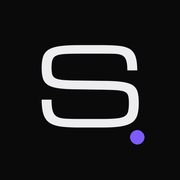
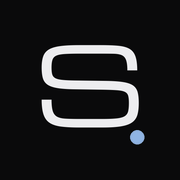
feat(v2): paleta acero/cromo sin violeta, cursor lente en el hero, easings south-in/mercury, Lenis v2

Changed region(s): [[0.7222, 0.7222, 0.8056, 0.8056]]

diff --git a/src/app/globals.css b/src/app/globals.css
@@ -5,7 +5,7 @@
  *  2) Sistema de diseño v2 (copiado del preview, fuentes → variables de next/font)
  *  3) Overrides del concepto 10 (Partículas)
  *  4) Extensiones de producción (páginas internas, menú móvil, view transitions, 404)
- * Colores: cambia --accent / --accent-rgb / --accent-fill en el bloque "Concepto 10".
+ * Colores: tokens --accent / --accent-rgb / --accent-fill / --accent-deep / --chrome-1..3 en :root (sección 2).
  */
 @layer theme, base, components, utilities;
 @import "tailwindcss/theme.css" layer(theme);
@@ -14,14 +14,16 @@
 /* ============ 2) Sistema de diseño v2 (preview) ============ */
 /* ===== South Software · design system v2 ===== */
 :root{--bg:#0A0A0B;--bg2:#0F0F11;--fg:#EDEDEF;--muted:#8A8F98;--dim:#757A84;--line:rgba(255,255,255,.08);--line2:rgba(255,255,255,.14);--card:rgba(255,255,255,.022);
---accent:#3B82F6;--accent-rgb:59,130,246;--ease:cubic-bezier(.16,1,.3,1);--radius:20px;
+/* Paleta acero/cromo (v2): sin violeta. --accent = texto/acentos sobre fondo oscuro; --accent-fill = rellenos con texto blanco */
+--accent:#8FB4E3;--accent-rgb:143,180,227;--accent-fill:#2F5C96;--accent-deep:#244A7F;--accent-deep-rgb:36,74,127;
+--chrome-1:#EEF2F6;--chrome-2:#A4ADB8;--chrome-3:#7F8894;--ease:cubic-bezier(.16,1,.3,1);--radius:20px;
 --font-display:var(--ff-satoshi),sans-serif;--font-body:var(--ff-inter),sans-serif;--font-mono:var(--ff-jetbrains),monospace;--font-logo:var(--ff-michroma),sans-serif;--display-weight:500;--track:-.045em}
 *,*::before,*::after{box-sizing:border-box;margin:0;padding:0}
 html{-webkit-font-smoothing:antialiased;-moz-osx-font-smoothing:grayscale;text-rendering:optimizeLegibility;background:var(--bg)}
 html.lenis,html.lenis body{height:auto}.lenis.lenis-smooth{scroll-behavior:auto!important}
 body{background:var(--bg);color:var(--fg);font-family:var(--font-body);font-size:16px;line-height:1.6;overflow-x:hidden;font-feature-settings:"ss01","cv11"}
 img,svg{display:block;max-width:100%}a{color:inherit;text-decoration:none}button,input,select,textarea{font:inherit;color:inherit}
-::selection{background:rgba(var(--accent-rgb),.85);color:#fff}
+::selection{background:var(--accent-fill);color:#fff}
 .wrap{width:min(1320px,100% - 64px);margin:0 auto}
 .g12{display:grid;grid-template-columns:repeat(12,minmax(0,1fr));column-gap:24px}
 section{position:relative}.sec{padding:160px 0}
@@ -34,7 +36,7 @@ section{position:relative}.sec{padding:160px 0}
 .sec-head{display:grid;grid-template-columns:repeat(12,minmax(0,1fr));column-gap:24px;align-items:end;margin-bottom:88px}
 .sec-head>div:first-child{grid-column:1/9}.sec-head .lead{grid-column:9/13;justify-self:end}
 .accent{color:var(--accent)}
-.chrome{background:linear-gradient(180deg,#fff 0%,#e3e8ee 32%,#7f8894 52%,#eef2f6 72%,#a4adb8 100%);-webkit-background-clip:text;background-clip:text;color:transparent}
+.chrome{background:linear-gradient(180deg,#fff 0%,#e3e8ee 32%,var(--chrome-3) 52%,var(--chrome-1) 72%,var(--chrome-2) 100%);-webkit-background-clip:text;background-clip:text;color:transparent}
 /* masks for SplitText */
 .line-mask,.word-mask{overflow:clip;overflow-clip-margin:.12em;padding-bottom:.04em}
 /* ===== nav ===== */
@@ -52,7 +54,7 @@ section{position:relative}.sec{padding:160px 0}
 .btn .t span:nth-child(2){position:absolute;top:100%;left:0}
 .btn:hover .t span{transform:translateY(-100%)}
 .btn .ic{width:16px;height:16px;transition:transform .7s var(--ease)}.btn:hover .ic{transform:translateX(3px)}
-.btn-primary{background:var(--accent-fill);color:#fff;box-shadow:0 0 0 1px rgba(255,255,255,.12) inset,0 8px 30px -10px rgba(var(--accent-rgb),.8)}
+.btn-primary{background:var(--accent-fill);color:#fff;box-shadow:0 0 0 1px rgba(255,255,255,.12) inset,0 8px 30px -12px rgba(36,74,127,.7)}
 .btn-primary::before{content:"";position:absolute;inset:0;z-index:-1;background:linear-gradient(120deg,transparent 30%,rgba(255,255,255,.28) 50%,transparent 70%);transform:translateX(-120%);transition:transform 1s var(--ease)}
 .btn-primary:hover::before{transform:translateX(120%)}
 .btn-light{background:#EDEDEF;color:#0A0A0B}
@@ -89,7 +91,7 @@ section{position:relative}.sec{padding:160px 0}
 /* ===== services ===== */
 .svc{display:grid;grid-template-columns:repeat(3,1fr);gap:1px;background:var(--line);border:1px solid var(--line);border-radius:var(--radius);overflow:hidden}
 .svc .item{position:relative;background:var(--bg);padding:36px 34px;min-height:340px;display:flex;flex-direction:column;overflow:hidden;cursor:pointer}
-.svc .item::before{content:"";position:absolute;inset:0;background:radial-gradient(500px circle at var(--mx,50%) var(--my,0%),rgba(var(--accent-rgb),.13),transparent 55%);opacity:0;transition:opacity .6s var(--ease)}
+.svc .item::before{content:"";position:absolute;inset:0;background:radial-gradient(500px circle at var(--mx,50%) var(--my,0%),rgba(var(--accent-deep-rgb),.18),transparent 55%);opacity:0;transition:opacity .6s var(--ease)}
 .svc .item:hover::before{opacity:1}
 .svc .num{font-family:var(--font-mono);font-size:12px;color:var(--dim);display:flex;justify-content:space-between}
 .svc .aicon{width:44px;height:44px;margin:46px 0 auto;color:var(--fg)}
@@ -104,7 +106,7 @@ section{position:relative}.sec{padding:160px 0}
 .tag{font-family:var(--font-mono);font-size:11px;letter-spacing:.04em;padding:4px 9px;border-radius:6px;border:1px solid var(--line);color:var(--muted)}
 .svc .plus{position:absolute;right:30px;bottom:34px;width:28px;height:28px;border-radius:50%;border:1px solid var(--line2);display:grid;place-items:center;transition:transform .8s var(--ease),background .5s,border-color .5s}
 .svc .plus::before,.svc .plus::after{content:"";position:absolute;width:10px;height:1px;background:var(--fg)}.svc .plus::after{transform:rotate(90deg)}
-.svc .item:hover .plus{transform:rotate(135deg);background:var(--accent);border-color:var(--accent)}
+.svc .item:hover .plus{transform:rotate(135deg);background:var(--accent-fill);border-color:var(--accent-fill)}
 /* ===== story (pinned) ===== */
 .story{height:340vh;border-top:1px solid var(--line)}
 .story .pin{position:sticky;top:0;height:100vh;display:flex;align-items:center;overflow:hidden}
@@ -118,7 +120,7 @@ section{position:relative}.sec{padding:160px 0}
 .story .progress{position:absolute;left:0;bottom:-40px;display:flex;gap:8px}
 .story .progress i{width:40px;height:2px;background:var(--line2);position:relative;overflow:hidden;border-radius:2px}
 .story .progress i b{position:absolute;inset:0;background:var(--accent);transform:scaleX(0);transform-origin:left}
-.device{grid-column:7/13;aspect-ratio:16/11;border-radius:16px;border:1px solid var(--line2);background:linear-gradient(180deg,#141417,#0D0D0F);box-shadow:0 60px 120px -40px rgba(0,0,0,.8),0 0 0 1px rgba(255,255,255,.02) inset,0 30px 120px -60px rgba(var(--accent-rgb),.6);position:relative;overflow:hidden}
+.device{grid-column:7/13;aspect-ratio:16/11;border-radius:16px;border:1px solid var(--line2);background:linear-gradient(180deg,#141417,#0D0D0F);box-shadow:0 60px 120px -40px rgba(0,0,0,.8),0 0 0 1px rgba(255,255,255,.02) inset,0 30px 120px -60px rgba(var(--accent-deep-rgb),.18);position:relative;overflow:hidden}
 .device .top{height:38px;border-bottom:1px solid var(--line);display:flex;align-items:center;gap:7px;padding:0 16px}
 .device .top i{width:10px;height:10px;border-radius:50%;background:#2a2a2e}
 .device .top span{margin-left:16px;font-family:var(--font-mono);font-size:11px;color:var(--dim);padding:4px 12px;border-radius:6px;background:rgba(255,255,255,.03)}
@@ -163,7 +165,7 @@ section{position:relative}.sec{padding:160px 0}
 .tl .rail b{position:absolute;inset:0;background:linear-gradient(var(--accent),rgba(var(--accent-rgb),.2));transform-origin:top;transform:scaleY(0)}
 .tl .st{display:grid;grid-template-columns:1fr 1fr;column-gap:120px;position:relative;padding:44px 0}
 .tl .st .node{position:absolute;left:50%;top:56px;width:13px;height:13px;margin-left:-6px;border-radius:50%;background:var(--bg);border:1px solid var(--line2);transition:background .6s,border-color .6s,box-shadow .6s}
-.tl .st.on .node{background:var(--accent);border-color:var(--accent);box-shadow:0 0 0 6px rgba(var(--accent-rgb),.15),0 0 30px rgba(var(--accent-rgb),.7)}
+.tl .st.on .node{background:var(--accent);border-color:var(--accent);box-shadow:0 0 0 6px rgba(var(--accent-rgb),.12),0 0 30px rgba(var(--accent-deep-rgb),.18)}
 .tl .st .c{grid-column:1;text-align:right}
 .tl .st:nth-child(odd) .c{grid-column:2;text-align:left}
 .tl .st .mono{color:var(--accent)}
@@ -212,13 +214,13 @@ section{position:relative}.sec{padding:160px 0}
 .tq .pill{display:inline-block;font-family:var(--font-mono);font-size:10px;letter-spacing:.08em;text-transform:uppercase;padding:4px 8px;border-radius:6px;border:1px solid var(--line2);color:var(--muted);margin-bottom:22px}
 /* ===== final CTA ===== */
 .final{min-height:100svh;display:flex;align-items:center;border-top:1px solid var(--line);overflow:hidden;padding:140px 0}
-.final .glow{position:absolute;width:900px;height:900px;left:50%;top:40%;transform:translate(-50%,-50%);background:radial-gradient(closest-side,rgba(var(--accent-rgb),.16),transparent);pointer-events:none}
+.final .glow{position:absolute;width:900px;height:900px;left:50%;top:40%;transform:translate(-50%,-50%);background:radial-gradient(closest-side,rgba(var(--accent-deep-rgb),.18),transparent);pointer-events:none}
 .final .g12{position:relative;width:100%;align-items:start;row-gap:60px}
 .final .l{grid-column:1/7}.final form{grid-column:8/13}
 .final h2{font-family:var(--font-display);font-weight:500;font-size:clamp(56px,8vw,136px);line-height:.88;letter-spacing:-.055em}
 .final .l p{color:var(--muted);font-size:18px;max-width:420px;margin-top:28px}
-.orb{margin-top:56px;width:168px;height:168px;border-radius:50%;background:var(--accent-fill);color:#fff;display:grid;place-items:center;text-align:center;font-weight:500;font-size:15px;line-height:1.25;box-shadow:0 30px 80px -20px rgba(var(--accent-rgb),.8);will-change:transform;position:relative}
-.orb::after{content:"";position:absolute;inset:-14px;border-radius:50%;border:1px solid rgba(var(--accent-rgb),.35)}
+.orb{margin-top:56px;width:168px;height:168px;border-radius:50%;background:linear-gradient(160deg,#fff 0%,var(--chrome-1) 28%,var(--chrome-2) 62%,var(--chrome-3) 100%);color:#0A0A0B;display:grid;place-items:center;text-align:center;font-weight:500;font-size:15px;line-height:1.25;box-shadow:0 0 0 1px rgba(255,255,255,.35) inset,0 30px 80px -24px rgba(var(--accent-deep-rgb),.7);will-change:transform;position:relative}
+.orb::after{content:"";position:absolute;inset:-14px;border-radius:50%;border:1px solid rgba(164,173,184,.35)}
 .direct{display:flex;gap:28px;margin-top:44px;font-size:14.5px;color:var(--muted)}.direct a{border-bottom:1px solid var(--line2);padding-bottom:3px;transition:color .4s,border-color .4s}.direct a:hover{color:var(--fg);border-color:var(--fg)}
 form.brief{display:grid;grid-template-columns:1fr 1fr;gap:12px;padding:28px;border-radius:24px;border:1px solid var(--line);background:rgba(16,16,18,.7);backdrop-filter:blur(12px)}
 .f{position:relative}.f.full{grid-column:1/-1}
@@ -256,7 +258,7 @@ footer{border-top:1px solid var(--line);padding:72px 0 0;overflow:hidden;positio
 .cursor{position:fixed;left:0;top:0;z-index:200;pointer-events:none;width:8px;height:8px;margin:-4px 0 0 -4px;border-radius:50%;background:#fff;mix-blend-mode:difference;opacity:0;transition:opacity .3s}
 .cursor-ring{position:fixed;left:0;top:0;z-index:199;pointer-events:none;width:36px;height:36px;margin:-18px 0 0 -18px;border-radius:50%;border:1px solid rgba(255,255,255,.35);display:grid;place-items:center;opacity:0;transition:width .6s var(--ease),height .6s var(--ease),margin .6s var(--ease),background .5s,border-color .5s,opacity .3s}
 .cursor-ring span{font-family:var(--font-mono);font-size:10.5px;letter-spacing:.08em;text-transform:uppercase;color:#fff;opacity:0;transition:opacity .3s}
-.cursor-ring.big{width:92px;height:92px;margin:-46px 0 0 -46px;background:rgba(var(--accent-rgb),.9);border-color:transparent}
+.cursor-ring.big{width:92px;height:92px;margin:-46px 0 0 -46px;background:rgba(47,92,150,.94);border-color:transparent}
 .cursor-ring.big span{opacity:1}
 .cursor-ring.link{width:56px;height:56px;margin:-28px 0 0 -28px;border-color:rgba(255,255,255,.6)}
 body.cursor-on .cursor{opacity:1}body.cursor-on .cursor-ring{opacity:1}
@@ -311,10 +313,8 @@ html{overflow-x:clip}
 }
 
 /* ============ 3) Concepto 10 · Partículas ============ */
-:root{--accent:#7C5CFF;--accent-rgb:124,92,255;--accent-fill:#7856FF}
 .hero h1{font-size:clamp(48px,6vw,100px);letter-spacing:-.05em}
 .hero .hx{margin-top:auto;padding-bottom:112px}
-.nav .logo img{filter:hue-rotate(28deg) saturate(1.2)}
 
 /* ============ 4) Extensiones de producción (mismo lenguaje visual) ============ */
 :where(h1,h2,h3,h4,h5,h6){font-size:inherit;font-weight:inherit}
@@ -322,7 +322,7 @@ html{overflow-x:clip}
 .skip:focus{top:16px}
 :focus-visible{outline:2px solid var(--accent);outline-offset:3px}
 .hero .gl-wrap canvas{display:block}
-.gl-fallback{position:absolute;inset:0;background:radial-gradient(60% 50% at 50% 40%,rgba(var(--accent-rgb),.18),transparent 70%)}
+.gl-fallback{position:absolute;inset:0;background:radial-gradient(60% 50% at 50% 40%,rgba(var(--accent-deep-rgb),.18),transparent 70%)}
 
 /* ---- Preloader 100% CSS (equivale al timeline GSAP del preview, total 1,5 s) ---- */
 .pre{animation:pre-out .45s cubic-bezier(.65,0,.35,1) 1.05s both}
@@ -365,7 +365,7 @@ form.brief .ts{min-height:65px}
 /* ---- Páginas internas ---- */
 .page-top{height:96px}
 .phero{position:relative;padding:200px 0 100px;border-bottom:1px solid var(--line);overflow:hidden}
-.phero .glow{position:absolute;width:900px;height:900px;right:-200px;top:-300px;background:radial-gradient(closest-side,rgba(var(--accent-rgb),.14),transparent);pointer-events:none}
+.phero .glow{position:absolute;width:900px;height:900px;right:-200px;top:-300px;background:radial-gradient(closest-side,rgba(var(--accent-deep-rgb),.16),transparent);pointer-events:none}
 .phero .wrap{position:relative}
 .phero h1{font-family:var(--font-display);font-weight:500;font-size:clamp(56px,8vw,136px);line-height:.9;letter-spacing:-.055em;margin-top:28px;text-wrap:balance}
 .phero .ph-l{grid-column:1/9}.phero .ph-r{grid-column:9/13;justify-self:end}
@@ -380,7 +380,7 @@ form.brief .ts{min-height:65px}
 .case-hero .media{position:relative;border-radius:16px;overflow:hidden;border:1px solid var(--line2);background:#111;aspect-ratio:16/9.4}
 .srows{display:grid;border-top:1px solid var(--line)}
 .srow{position:relative;display:grid;grid-template-columns:repeat(12,minmax(0,1fr));column-gap:24px;padding:56px 0;border-bottom:1px solid var(--line);scroll-margin-top:100px}
-.srow::before{content:"";position:absolute;inset:0;background:radial-gradient(600px circle at var(--mx,50%) var(--my,0%),rgba(var(--accent-rgb),.08),transparent 55%);opacity:0;transition:opacity .6s var(--ease);pointer-events:none}
+.srow::before{content:"";position:absolute;inset:0;background:radial-gradient(600px circle at var(--mx,50%) var(--my,0%),rgba(var(--accent-deep-rgb),.16),transparent 55%);opacity:0;transition:opacity .6s var(--ease);pointer-events:none}
 .srow:hover::before{opacity:1}
 .srow .s-num{grid-column:1/3;display:flex;flex-direction:column;gap:28px;color:var(--dim)}
 .srow .aicon{width:44px;height:44px;color:var(--fg)}
@@ -434,3 +434,8 @@ html.rm .marquee .track,html.rm .hero-meta .scroll i::after{animation:none}
 
 /* a11y: texto de la barra de URL sobre #141417 (4.77:1, antes 4.27:1) */
 .case .media .top span,.device .top span{color:#7D828C}
+
+/* Cursor "lente" sobre el hero (v2): anillo de 64px sin relleno ni etiqueta; se oculta el punto central */
+.cursor-ring.lens{width:64px;height:64px;margin:-32px 0 0 -32px;background:none;border:1px solid rgba(237,237,239,.35);-webkit-backdrop-filter:blur(0) saturate(1.1);backdrop-filter:blur(0) saturate(1.1)}
+.cursor-ring.lens span{display:none}
+body.cursor-lens .cursor{opacity:0!important}

diff --git a/src/lib/motion-runtime.ts b/src/lib/motion-runtime.ts
@@ -37,7 +37,7 @@ export function startGlobal(): () => void {
     // Lenis (smooth scroll) — detenido mientras corre el preloader
     let tick: ((t: number) => void) | null = null;
     if (!RT.static) {
-      lenis = new Lenis({ lerp: 0.09, smoothWheel: true, wheelMultiplier: 1 });
+      lenis = new Lenis({ lerp: 0.12, wheelMultiplier: 1.1, touchMultiplier: 1.2, smoothWheel: true, syncTouch: false });
       lenis.on('scroll', ScrollTrigger.update);
       tick = (t: number) => lenis?.raf(t * 1000);
       gsap.ticker.add(tick);
@@ -81,11 +81,16 @@ export function startGlobal(): () => void {
       on(document, 'pointerover', ((e: PointerEvent) => {
         const t = e.target as Element;
         const ctx = t.closest?.('[data-cursor]') as HTMLElement | null;
+        const link = !ctx && !!t.closest?.('a,button,select,input,textarea');
+        // lente del hero: sin etiqueta ni relleno (no aplica sobre links/botones)
+        const lens = !ctx && !link && !!t.closest?.('[data-cursor-lens]');
         r.classList.toggle('big', !!ctx);
         if (ctx) label.textContent = ctx.dataset.cursor || '';
-        r.classList.toggle('link', !ctx && !!t.closest?.('a,button,select,input,textarea'));
+        r.classList.toggle('link', link);
+        r.classList.toggle('lens', lens);
+        document.body.classList.toggle('cursor-lens', lens);
       }) as EventListener, { passive: true });
-      off.push(() => { d.remove(); r.remove(); document.body.classList.remove('cursor-on'); });
+      off.push(() => { d.remove(); r.remove(); document.body.classList.remove('cursor-on', 'cursor-lens'); });
     }
 
     // Nav que se esconde al bajar + botón flotante de WhatsApp
@@ -149,7 +154,7 @@ export function startRoute(root: HTMLElement): () => void {
         const parts = type === 'chars' ? st.chars : type === 'lines' ? st.lines : st.words;
         const v = { yPercent: 0, duration: 1.2, stagger: type === 'chars' ? 0.022 : 0.06, ease: 'south' };
         gsap.set(parts, { yPercent: 115 });
-        if (inHero) off.push(onIntro(() => gsap.to(parts, { ...v, delay: parseFloat(el.dataset.delay || '0') })));
+        if (inHero) off.push(onIntro(() => gsap.to(parts, { ...v, ease: el.closest('.hero') ? 'mercury' : 'south', delay: parseFloat(el.dataset.delay || '0') })));
         else gsap.to(parts, { ...v, scrollTrigger: { trigger: el, start: 'top 86%' } });
       });
     });
@@ -246,7 +251,7 @@ export function startRoute(root: HTMLElement): () => void {
           const img = m.querySelector('img'); const o = { s: 0 };
           if (img) listen(m, 'pointerenter', () => {
             img.style.filter = `url(#${id})`;
-            gsap.fromTo(o, { s: 0 }, { s: 38, duration: 0.35, ease: 'power2.out', yoyo: true, repeat: 1, onUpdate: () => dm.setAttribute('scale', String(o.s)), onComplete: () => { img.style.filter = ''; } });
+            gsap.fromTo(o, { s: 0 }, { s: 18, duration: 0.35, ease: 'power2.out', yoyo: true, repeat: 1, onUpdate: () => dm.setAttribute('scale', String(o.s)), onComplete: () => { img.style.filter = ''; } });
           });
         });
       }

diff --git a/src/components/MobileMenu.tsx b/src/components/MobileMenu.tsx
@@ -8,6 +8,7 @@ import { AnimatePresence, LazyMotion, domAnimation, m } from 'framer-motion';
 import { NAV } from '@/content/site';
 
 const EASE = [0.16, 1, 0.3, 1] as const;
+const EASE_IN = [0.7, 0, 0.84, 0] as const; // 'south-in' para salidas
 
 export default function MobileMenu({ open, onClose }: { open: boolean; onClose: () => void }) {
   return (
@@ -15,7 +16,7 @@ export default function MobileMenu({ open, onClose }: { open: boolean; onClose: 
       <AnimatePresence>
         {open && (
           <m.div id="menu-movil" className="mmenu" role="dialog" aria-modal="true" aria-label="Menú"
-            initial={{ clipPath: 'inset(0 0 100% 0)' }} animate={{ clipPath: 'inset(0 0 0% 0)' }} exit={{ clipPath: 'inset(0 0 100% 0)' }}
+            initial={{ clipPath: 'inset(0 0 100% 0)' }} animate={{ clipPath: 'inset(0 0 0% 0)' }} exit={{ clipPath: 'inset(0 0 100% 0)', transition: { duration: 0.5, ease: EASE_IN } }}
             transition={{ duration: 0.7, ease: EASE }}>
             <nav aria-label="Menú móvil">
               {[{ href: '/', label: 'Inicio' }, ...NAV].map((l, i) => (

diff --git a/src/lib/gsap.ts b/src/lib/gsap.ts
@@ -1,4 +1,4 @@
-/** Registro único de plugins GSAP + easing de marca `south` = cubic-bezier(0.16,1,0.3,1). */
+/** Registro único de plugins GSAP + easings de marca: `south` (0.16,1,0.3,1), `south-in` (salidas) y `mercury`. */
 import gsap from 'gsap';
 import { ScrollTrigger } from 'gsap/ScrollTrigger';
 import { SplitText } from 'gsap/SplitText';
@@ -10,6 +10,10 @@ export function setupGsap() {
   registered = true;
   gsap.registerPlugin(ScrollTrigger, SplitText, CustomEase);
   CustomEase.create('south', '0.16,1,0.3,1');
+  // salidas (aceleran hacia el final)
+  CustomEase.create('south-in', '0.7,0,0.84,0');
+  // "mercurio": leve sobrepaso y asentamiento. SOLO intro del titular y morph esfera→texto al subir
+  CustomEase.create('mercury', 'M0,0 C0.2,0 0.1,1.12 0.42,1.02 0.62,0.98 0.8,1 1,1');
   gsap.defaults({ ease: 'south', duration: 1 });
 }
 export { gsap, ScrollTrigger, SplitText };

diff --git a/src/app/not-found.tsx b/src/app/not-found.tsx
@@ -11,7 +11,7 @@ const LINES = [{ text: '404', size: 300, y: 200 }];
 export default function NotFound() {
   return (
     <Page>
-      <section className="hero nf" data-cursor="Mueve">
+      <section className="hero nf" data-cursor-lens>
         <HeroCanvas font={michromaFamily} lines={LINES} />
         <div className="shade-b" />
         <div className="hx">

diff --git a/src/components/sections/Hero.tsx b/src/components/sections/Hero.tsx
@@ -5,7 +5,7 @@ import { michromaFamily } from '@/lib/fonts';
 
 export default function Hero() {
   return (
-    <section className="hero" id="hero" data-cursor="Mueve">
+    <section className="hero" id="hero" data-cursor-lens>
       <HeroCanvas font={michromaFamily} />
       <div className="shade-b" />
       <div className="hx">

diff --git a/scripts/measure-home.py b/scripts/measure-home.py
@@ -1,0 +1,29 @@
+"""Mide altura del home y de cada sección (en px y en múltiplos de innerHeight) en 3 viewports.
+Uso: python3 scripts/measure-home.py http://localhost:3100/ [salida.json]"""
+import asyncio, sys, json
+from playwright.async_api import async_playwright
+URL = sys.argv[1] if len(sys.argv) > 1 else 'http://localhost:3100/'
+VPS = [('1440x900', 1440, 900, False), ('1280x680', 1280, 680, False), ('390x844', 390, 844, True)]
+JS = """() => {
+  const vh = innerHeight, page = [...document.querySelectorAll('main .page')].find(p => p.offsetParent !== null) || document.querySelector('main');
+  const els = [...page.querySelectorAll(':scope > section, :scope > div > section, :scope > section.story')];
+  const out = els.map(s => ({ id: s.id || s.className.split(' ')[0] || s.getAttribute('aria-label'), h: Math.round(s.getBoundingClientRect().height), vh: +(s.getBoundingClientRect().height / vh).toFixed(2) }));
+  const f = document.querySelector('footer'); if (f) out.push({ id: 'footer', h: Math.round(f.offsetHeight), vh: +(f.offsetHeight / vh).toFixed(2) });
+  return { scrollHeight: document.documentElement.scrollHeight, innerHeight: vh, ratio: +(document.documentElement.scrollHeight / vh).toFixed(2), sections: out };
+}"""
+async def main():
+  res = {}
+  async with async_playwright() as p:
+    b = await p.chromium.launch(executable_path='/usr/bin/google-chrome', args=['--use-angle=swiftshader', '--enable-unsafe-swiftshader'])
+    for name, w, h, mob in VPS:
+      ctx = await b.new_context(viewport={'width': w, 'height': h}, is_mobile=mob, has_touch=mob, device_scale_factor=1)
+      pg = await ctx.new_page(); await pg.goto(URL, wait_until='load'); await pg.wait_for_timeout(2500)
+      for y in range(0, 30): await pg.mouse.wheel(0, 900); await pg.wait_for_timeout(60)
+      await pg.wait_for_timeout(800)
+      res[name] = await pg.evaluate(JS); await ctx.close()
+    await b.close()
+  for k, v in res.items():
+    print(f"{k}: scrollHeight={v['scrollHeight']} ratio={v['ratio']}")
+    for s in v['sections']: print(f"   {s['id']:<20} {s['h']:>6}px {s['vh']:>5}vh")
+  if len(sys.argv) > 2: json.dump(res, open(sys.argv[2], 'w'), indent=1)
+asyncio.run(main())

diff --git a/scripts/js-weight.py b/scripts/js-weight.py
@@ -1,0 +1,23 @@
+"""Suma el JS (gzip) que carga el home en desktop, separando el chunk 3D (three/R3F).
+Uso: python3 scripts/js-weight.py http://localhost:3100/  (lee los archivos de .next/static)."""
+import asyncio, sys, gzip, os
+from playwright.async_api import async_playwright
+URL = sys.argv[1] if len(sys.argv) > 1 else 'http://localhost:3100/'
+ROOT = os.path.join(os.path.dirname(__file__), '..', '.next')
+async def main():
+  urls = []
+  async with async_playwright() as p:
+    b = await p.chromium.launch(executable_path='/usr/bin/google-chrome', args=['--use-angle=swiftshader', '--enable-unsafe-swiftshader'])
+    pg = await b.new_page(viewport={'width': 1440, 'height': 900})
+    pg.on('request', lambda r: urls.append(r.url) if r.url.endswith('.js') else None)
+    await pg.goto(URL, wait_until='load'); await pg.mouse.move(700, 300); await pg.wait_for_timeout(6000)
+    await b.close()
+  tot = three = 0
+  for u in sorted(set(urls)):
+    f = os.path.join(ROOT, u.split('/_next/')[1])
+    data = open(f, 'rb').read(); gz = len(gzip.compress(data, 9))
+    is3d = any(k in data for k in (b'WebGLRenderer', b'GPUComputationRenderer', b'PMREMGenerator', b'@react-three', b'useFrame', b'gl_PointSize'))
+    tot += gz; three += gz if is3d else 0
+    print(f"{gz:>8} {'3D ' if is3d else '   '}{os.path.basename(f)}")
+  print(f'TOTAL gzip {tot}  | 3D chunks gzip {three}')
+asyncio.run(main())

diff --git a/scripts/shoot.py b/scripts/shoot.py
@@ -37,7 +37,7 @@ async def main():
                 pg.on('pageerror', lambda e: errs.append(str(e)))
                 await pg.goto(BASE + r, wait_until='load')
                 if not mobile: await pg.mouse.move(900, 380)
-                await pg.wait_for_timeout(4200)
+                await pg.wait_for_timeout(7500 if mobile else 4200)  # móvil: el 3D se carga diferido
                 await pg.screenshot(path=f'{OUT}/{s}-{name}-hero.png')
                 if '--full' in os.environ.get('SHOOT', ''):
                     img = await full(pg, r, vp['width'], vp['height'])
